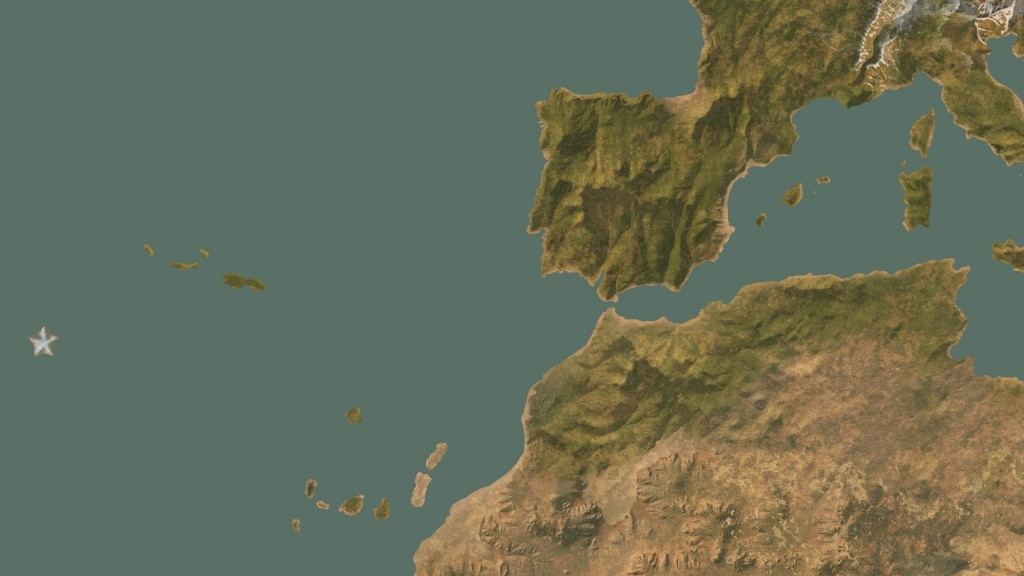
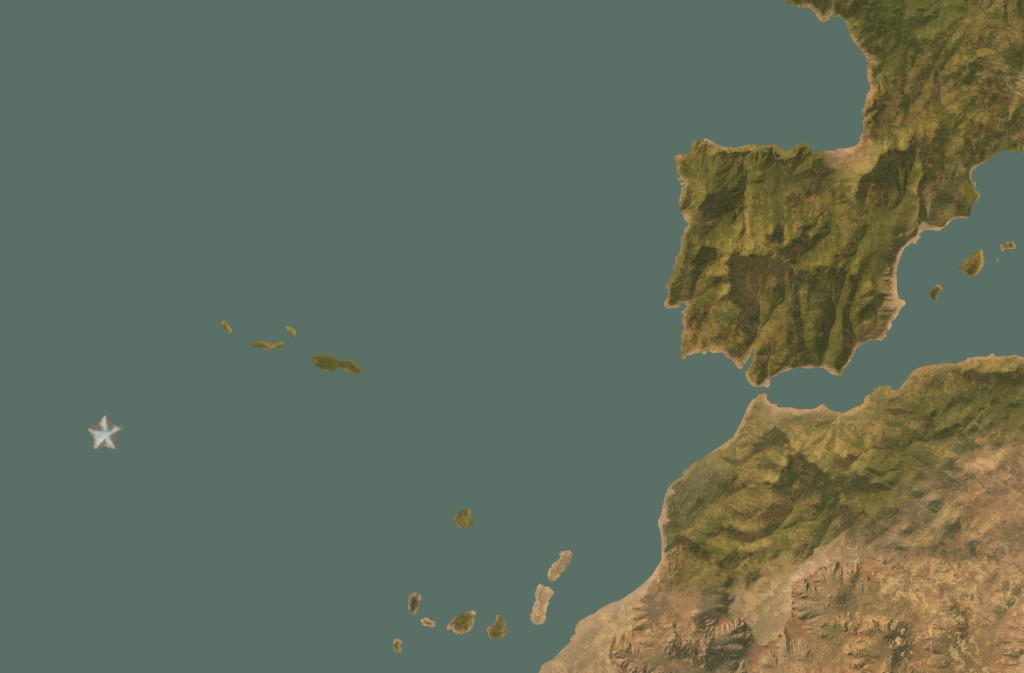
feat(origin): 해역 맵 이미지 갱신과 낭트·보르도 유럽대서양 이동

diff --git a/js/origin-ports-coords.js b/js/origin-ports-coords.js
@@ -26,8 +26,8 @@
             label: '지중해,흑해',
             anchor: '이스탄불',
             image: 'images/origin/eastmed.png',
-            imageAspect: 1024 / 640,
-            imageVersion: '20260714c',
+            imageAspect: 1024 / 673,
+            imageVersion: '20260715a',
             regions: ['동지중해', '흑해 인근', '이탈리아반도', '지중해'],
             ports: {
                 오데사: { x: 70, y: 8 },
@@ -70,8 +70,8 @@
             label: '유럽대서양',
             anchor: '리스본',
             image: 'images/origin/gibraltar-16x9.png',
-            imageAspect: 1024 / 576,
-            imageVersion: '20260714-2302',
+            imageAspect: 1024 / 673,
+            imageVersion: '20260715b',
             regions: ['지브롤터 근처', '잉글랜드 서쪽'],
             ports: {
                 리스본: { x: 38, y: 42 },
@@ -86,6 +86,8 @@
                 알제: { x: 72, y: 58 },
                 카사블랑카: { x: 42, y: 62 },
                 히혼: { x: 48, y: 22 },
+                보르도: { x: 58, y: 10 },
+                낭트: { x: 56, y: 4 },
                 아조레스: { x: 12, y: 48 },
                 마데이라: { x: 22, y: 62 },
                 산타섬: { x: 18, y: 40 },
@@ -95,6 +97,9 @@
             id: 'northsea',
             label: '북해·스칸디나비아',
             anchor: '암스테르담',
+            image: 'images/origin/northsea.png',
+            imageAspect: 1024 / 673,
+            imageVersion: '20260715a',
             regions: ['북해', '스칸디나비아반도', '잉글랜드 서쪽', '북극해'],
             ports: {
                 런던: { x: 32, y: 58 },
@@ -111,8 +116,6 @@
                 브리스틀: { x: 22, y: 56 },
                 플리머스: { x: 18, y: 62 },
                 더블린: { x: 14, y: 48 },
-                낭트: { x: 28, y: 72 },
-                보르도: { x: 32, y: 80 },
                 코펜하겐: { x: 66, y: 36 },
                 그단스크: { x: 78, y: 40 },
                 리가: { x: 86, y: 32 },
